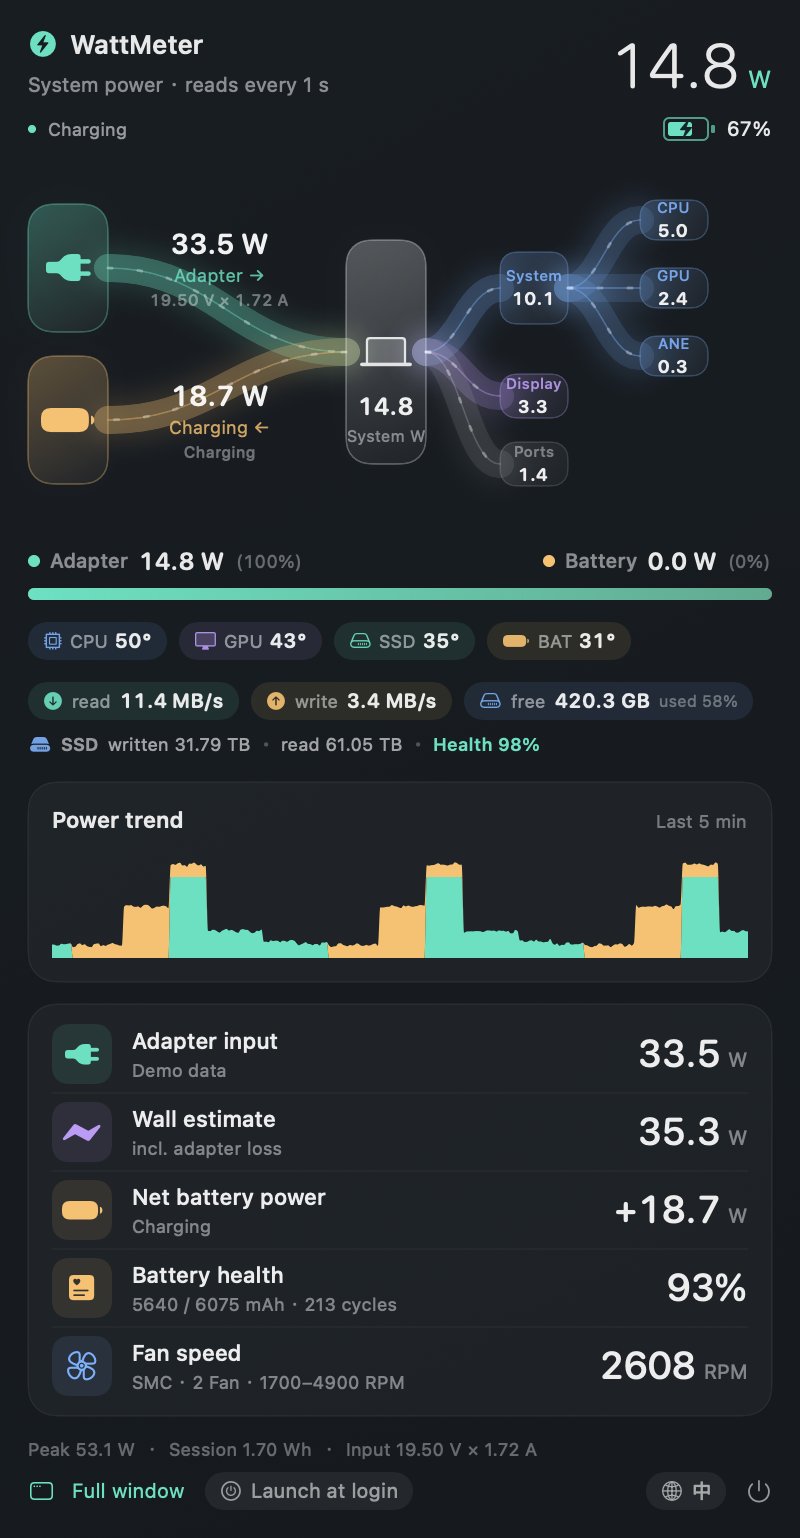
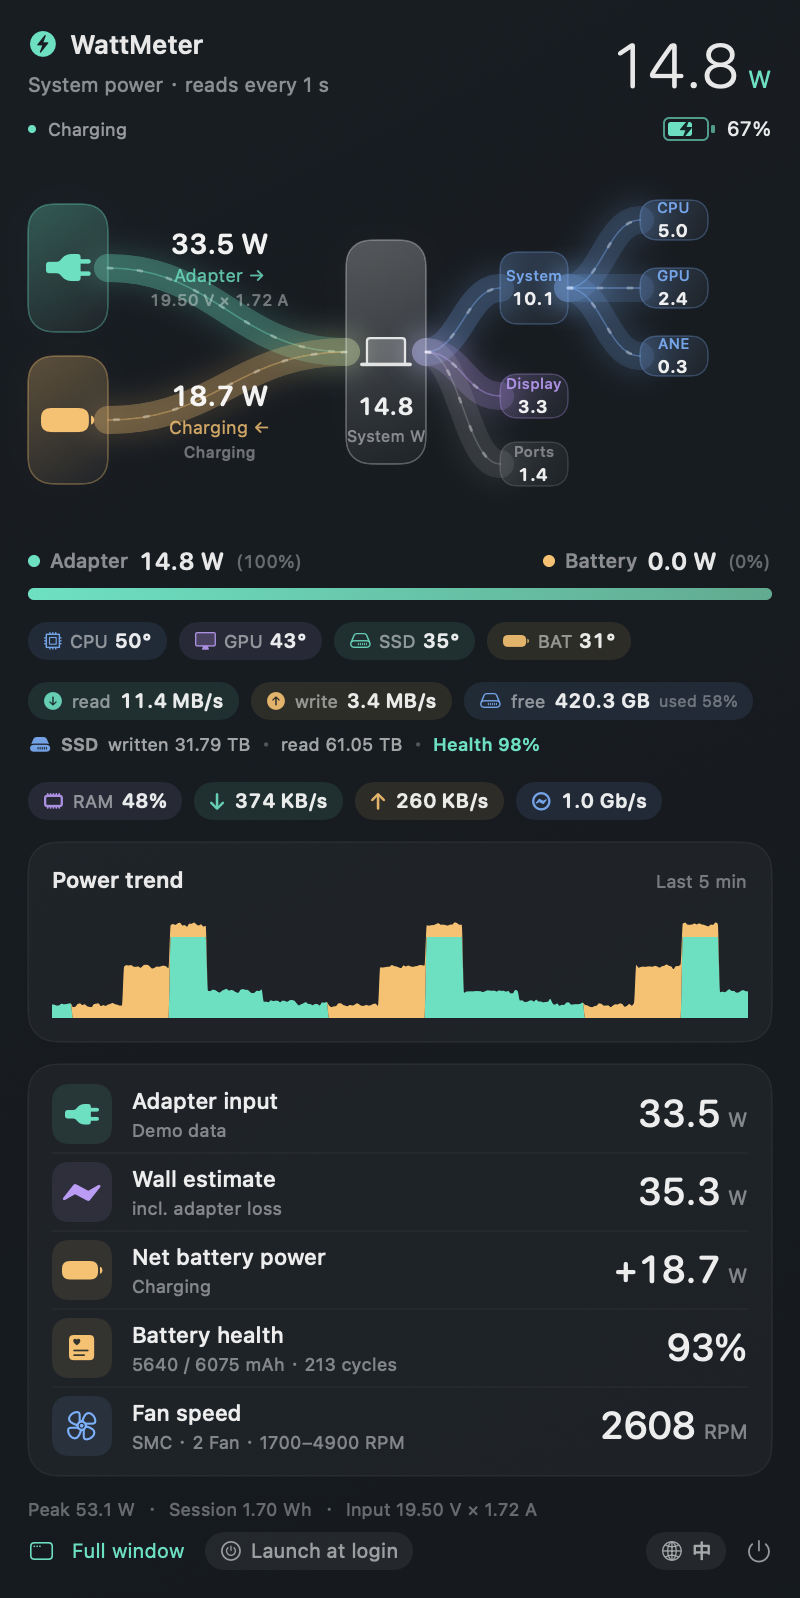
release: 1.7.0 (part 1: version, notes, panel previews)

diff --git a/docs/release-notes-1.7.0.md b/docs/release-notes-1.7.0.md
@@ -1,0 +1,106 @@
+# WattMeter 1.7.0
+
+A native macOS menu-bar power monitor: live power (adapter input by default), adapter vs battery
+split, CPU / GPU / ANE / DRAM power, temperatures, fan speed, battery health, disk / SSD SMART
+figures, and a Sankey-style power-flow diagram. **New in 1.7.0: memory, network and link speed.**
+
+## New
+
+### Memory usage
+
+Read with `host_statistics64` (the same source as Activity Monitor):
+
+- **used %** = (App + Wired + Compressed) ÷ physical memory
+- **used / total** in binary units, so a 16 GB Mac reads `16.0 GB` (not 17.2 GB)
+- swap usage when swap is in use
+
+### Network throughput, link speed and since-boot traffic
+
+Sampled from the kernel's 64-bit interface counters (`sysctl NET_RT_IFLIST2`), only for `en*`
+interfaces (Ethernet / Wi-Fi) so VPN, AirDrop and bridge interfaces do not double-count:
+
+- **download / upload rate** — per-second delta of the counters
+- **link speed** — `if_baudrate` of the active interface, e.g. `1.0 Gb/s`, `346 Mb/s` on Wi-Fi
+- **since-boot traffic** — cumulative in / out since the last boot
+- the primary interface name (`en0` / `en1`) is shown in the main window
+
+Where it shows up:
+
+- **Menu bar panel**: a new chip row under the disk line — `RAM 48%`, `↓ 374 KB/s`,
+  `↑ 260 KB/s`, `1.0 Gb/s` (panel 770 → 800 pt).
+- **Main window**: a “Memory / network” card in the sidebar — RAM % with used/total, network rates,
+  link speed and since-boot totals.
+- **Menu bar tooltip**: memory and network lines.
+
+### Diagnostics
+
+```bash
+/Applications/WattMeter.app/Contents/MacOS/WattMeter --system
+```
+
+prints memory (with App / Wired / Compressed / swap breakdown), the 1-second network rates, the link
+speed, the primary interface and the since-boot traffic.
+
+## Also included since 1.2.2
+
+Everything from 1.3.x–1.6.0: menu bar shows adapter input (metric switchable), self-healing status
+item, battery health with full-charge / design capacity and cycle count, disk throughput, SSD SMART
+lifetime writes / reads / health, split line-chart Y domain, About window, flow diagram with
+CPU / GPU / ANE / DRAM branches, English-primary UI with Chinese available, launch at login,
+macOS 13+ universal binary.
+
+## Requirements
+
+- **macOS 13 or later** (macOS 13 / 14 / 15 and newer)
+- **Apple Silicon (M-series) or Intel Mac** — universal binary (`arm64` + `x86_64`)
+- No root, no kernel extension, no network access; the app only reads IOKit / SMC / sysctl
+
+## Install
+
+1. Download **WattMeter-1.7.0.dmg** and open it.
+2. Drag **WattMeter.app** into Applications, eject.
+3. First launch: right-click → Open (ad-hoc signed), or
+   `xattr -dr com.apple.quarantine /Applications/WattMeter.app`
+
+## 简体中文
+
+### 新增：内存使用率
+
+用 `host_statistics64` 读取（与活动监视器同源）：
+
+- **使用率** =（App + Wired + Compressed）÷ 物理内存
+- **已用 / 总量**用 1024 进制显示，16 GB 的机器显示 `16.0 GB`（不是 17.2 GB）
+- 有交换区时显示交换用量
+
+### 新增：网络速率、连接速率、开机以来流量
+
+来自内核的 64 位接口计数器（`sysctl NET_RT_IFLIST2`），只统计 `en*`（以太网 / Wi-Fi），
+避免 VPN、AirDrop、桥接接口重复计数：
+
+- **下载 / 上传速率**：计数器每秒增量
+- **连接速率**：活动接口的 `if_baudrate`，例如 `1.0 Gb/s`，Wi-Fi 上是 `346 Mb/s`
+- **开机以来流量**：本次开机至今的累计流入 / 流出
+- 主用接口名（`en0` / `en1`）在主窗口里显示
+
+显示位置：
+
+- **菜单栏面板**：磁盘条下方新增一行徽章 —— `RAM 48%`、`↓ 374 KB/s`、`↑ 260 KB/s`、`1.0 Gb/s`
+  （面板 770 → 800）；
+- **主窗口**：侧栏新增「内存 / 网络」卡片 —— 内存使用率与已用/总量、网络速率、连接速率、
+  开机以来流量；
+- **菜单栏 tooltip**：内存与网络两行。
+
+### 诊断命令
+
+```bash
+/Applications/WattMeter.app/Contents/MacOS/WattMeter --system
+```
+
+输出内存（含 App / Wired / Compressed / 交换明细）、1 秒窗口的网络速率、连接速率、主用接口，
+以及开机以来的累计流量。
+
+### 同时包含 1.2.2 以来的全部更新
+
+包括 1.3.x–1.6.0 的全部内容：菜单栏默认显示电源输入并可切换口径、状态项自愈、电池健康度、
+磁盘读写速率、SSD SMART 累计读写与健康度、折线图 Y 轴同时覆盖两条曲线、关于窗口、
+流向图 CPU / GPU / ANE / DRAM 分项、界面以英文为主可切中文、登录时启动、macOS 13+ 通用二进制。
